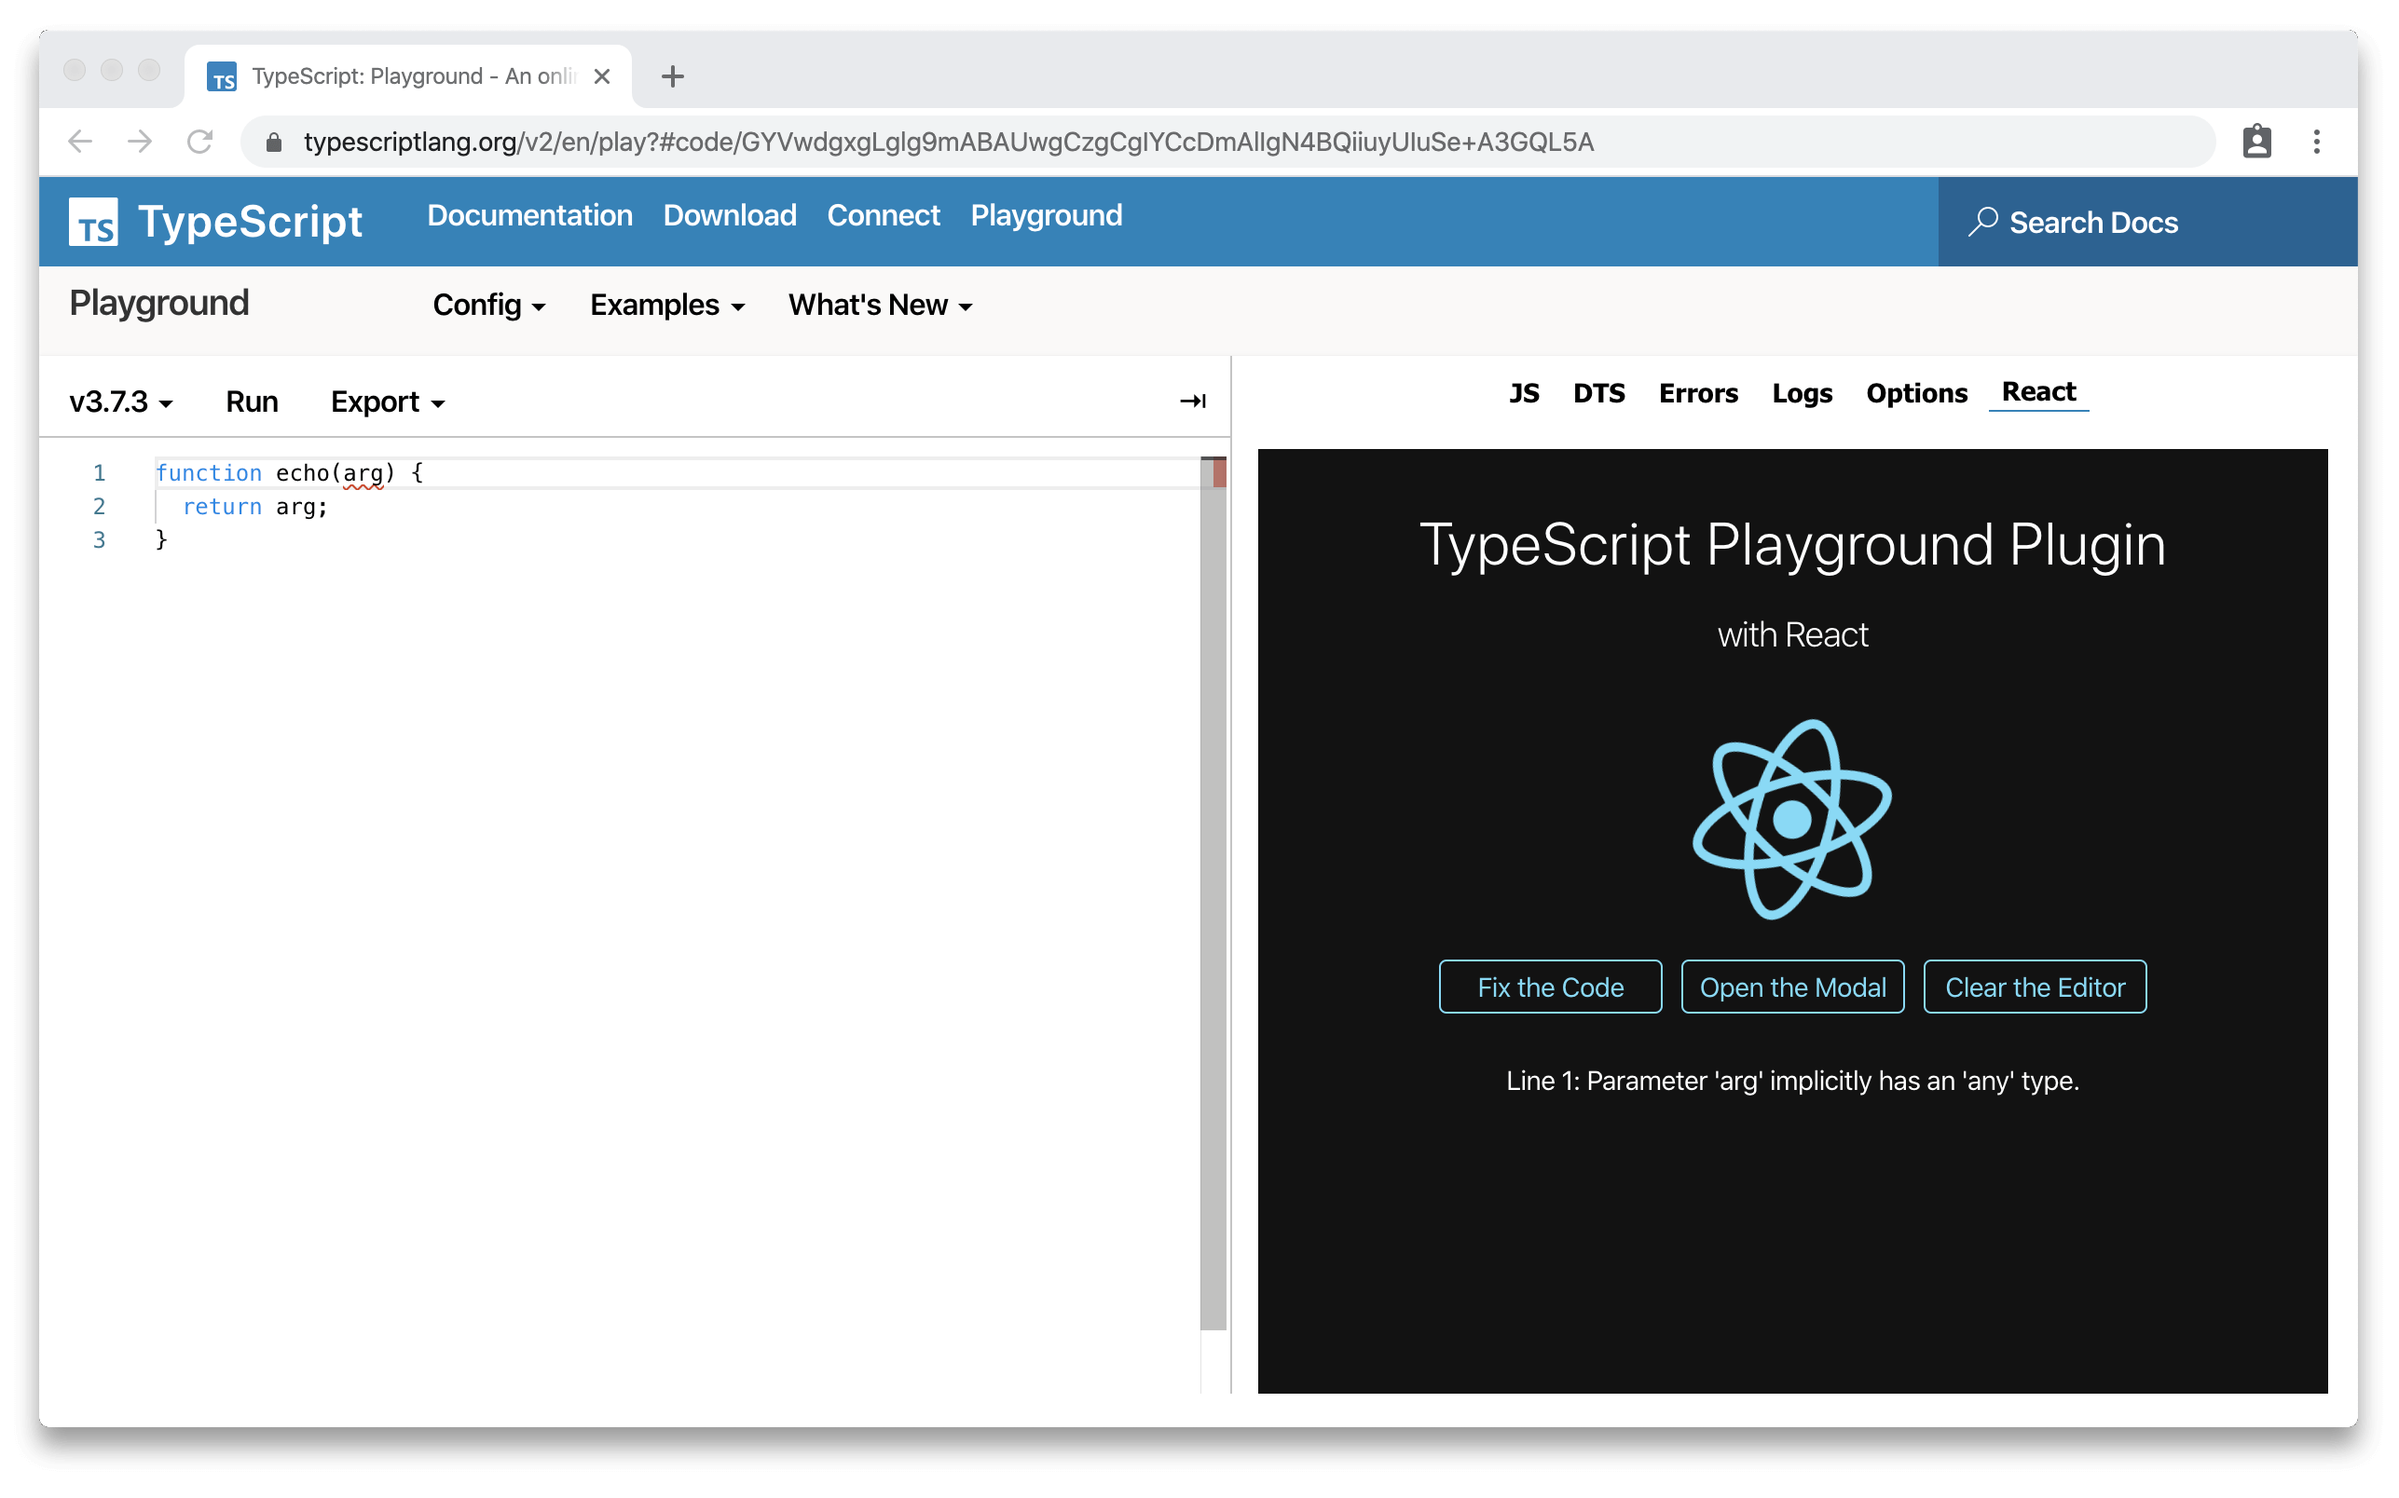
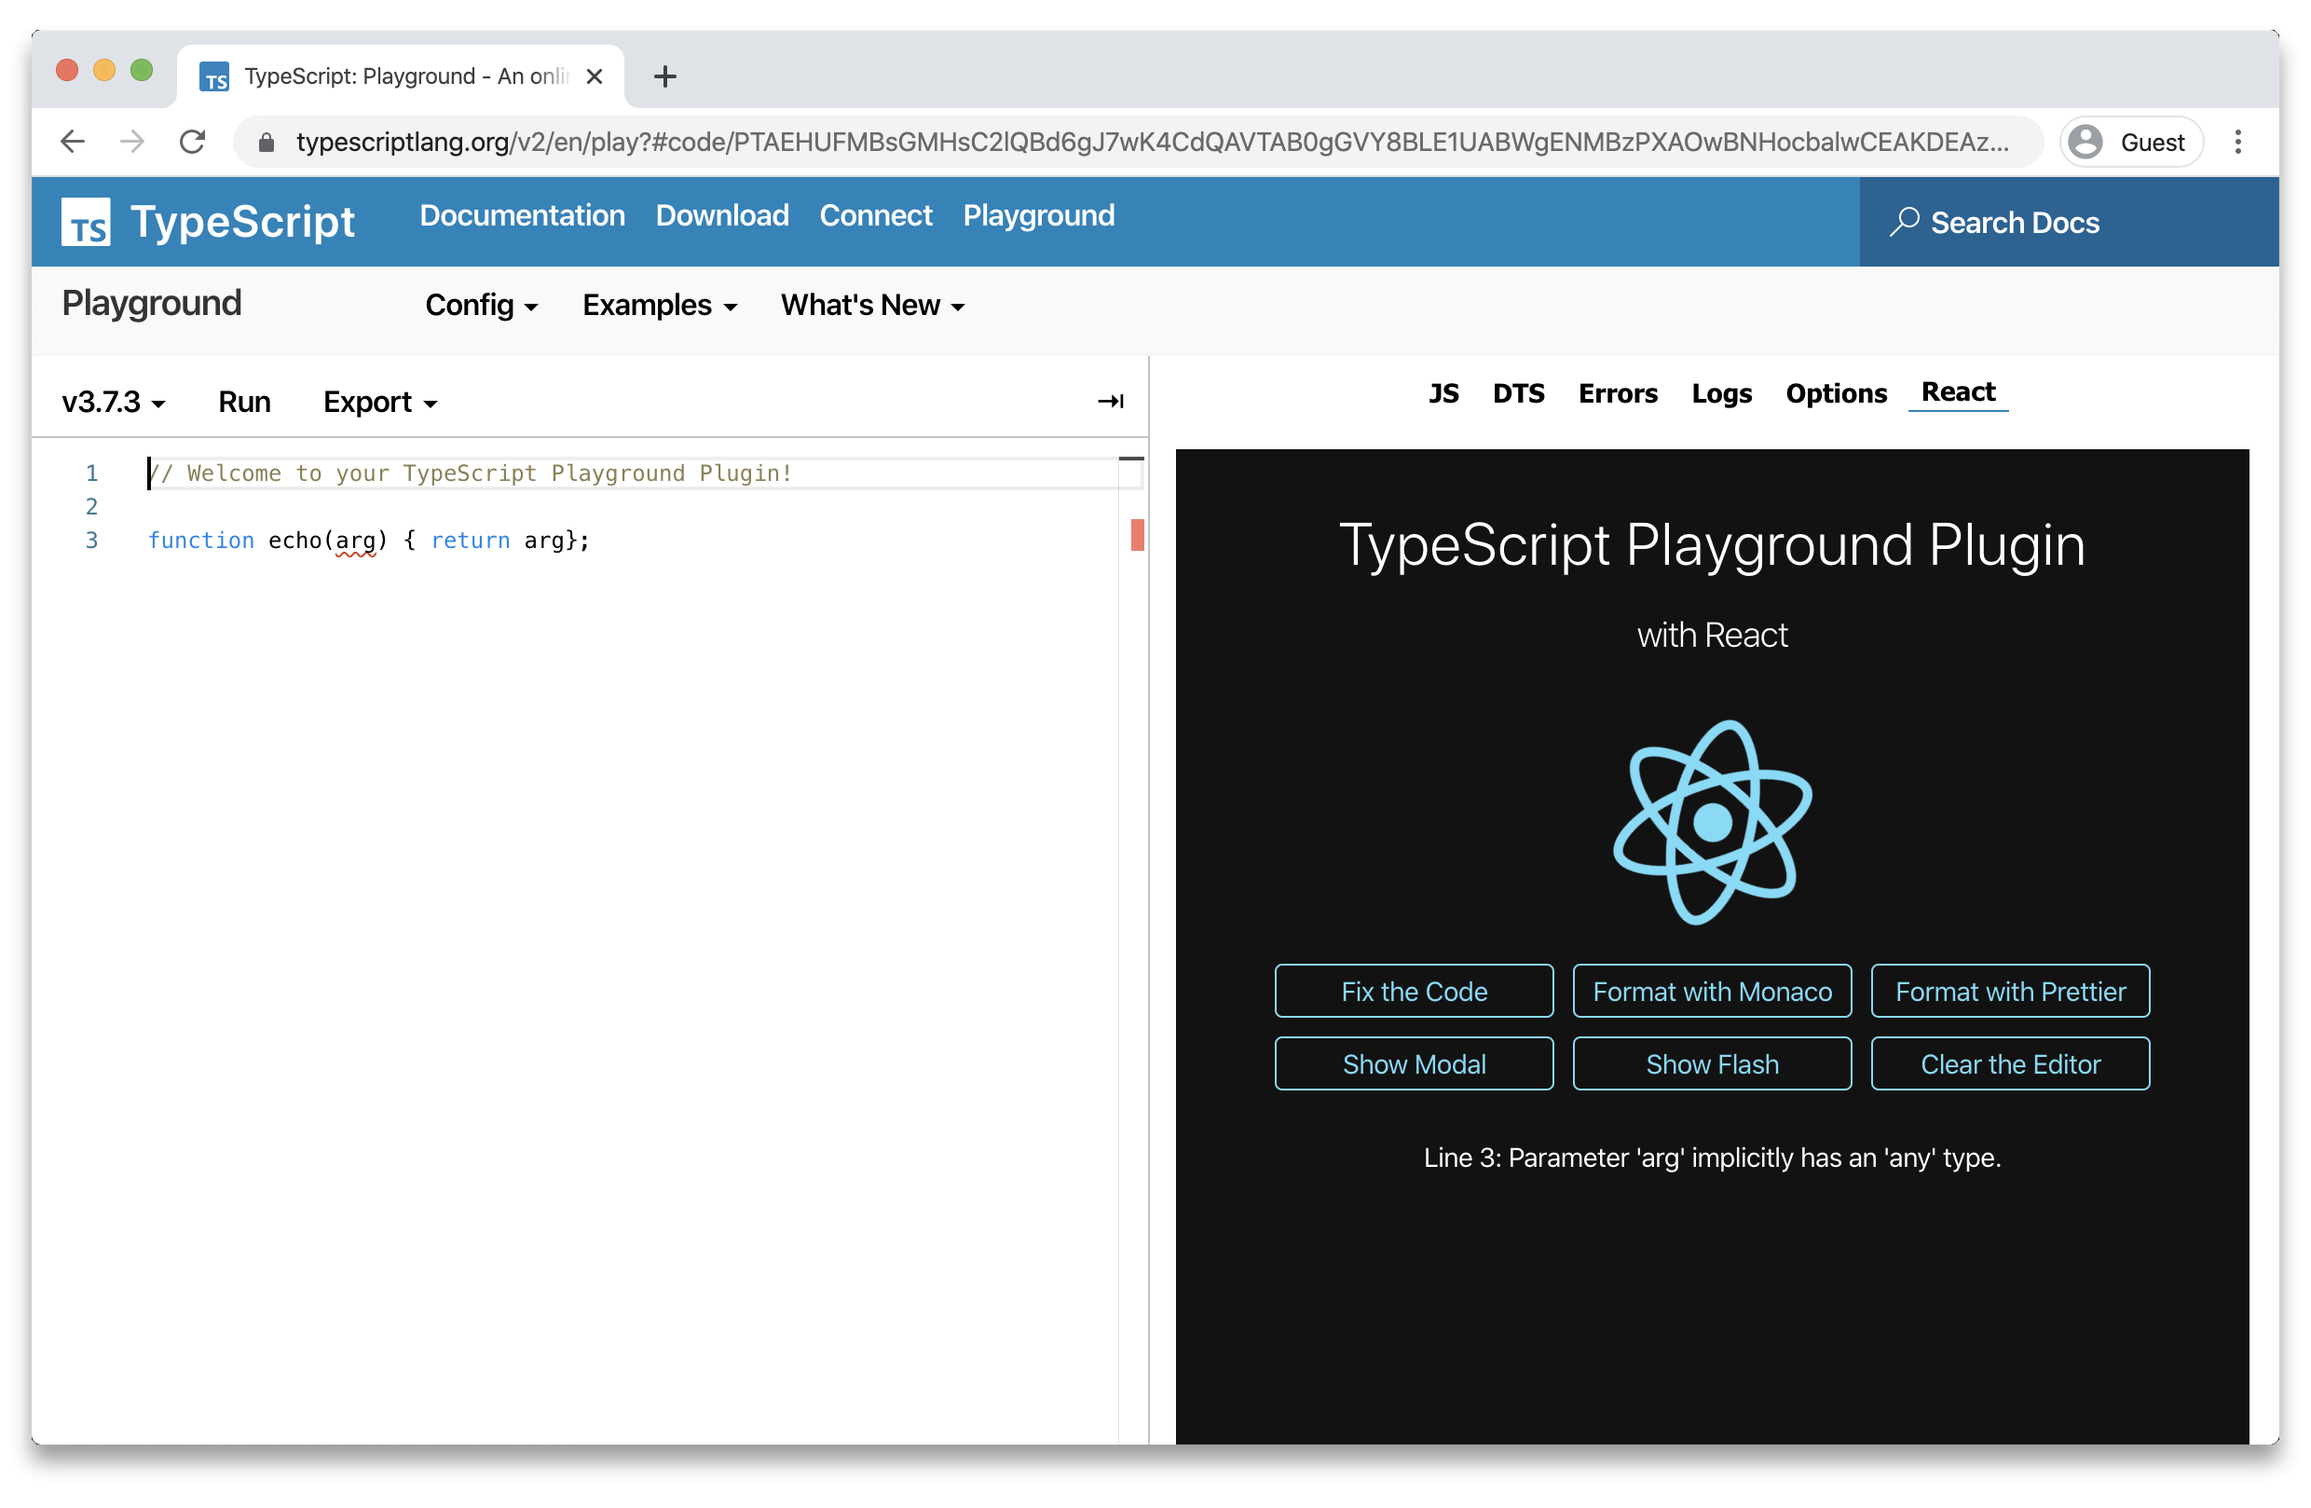
Minor refactors, cleanup, and updated README.

diff --git a/src/App.tsx b/src/App.tsx
@@ -2,6 +2,7 @@ import React from "react";
 import { css } from "goober";
 import { usePlugin } from "./plugin";
 import "./App.css";
+// @ts-ignore TODO: Fix this
 import logo from "./assets/logo.svg";
 
 const { useEffect } = React;
@@ -103,7 +104,7 @@ const App: React.FC = () => {
       </button>
 
       <button className={buttonClass} onClick={handleShowFlash}>
-        Flash Info
+        Show Flash
       </button>
 
       <button className={buttonClass} onClick={handleClear}>

diff --git a/src/types/index.d.ts b/src/types/index.d.ts
@@ -3,7 +3,10 @@ import {ShowModal, FlashInfo} from '../plugin/Provider'
 declare module "*.jpeg";
 declare module "*.jpg";
 declare module "*.png";
-declare module "*.svg";
+declare module '*.svg' {
+  const content: any
+  export default content;
+}
 
 declare global {
   interface Window {
@@ -13,6 +16,5 @@ declare global {
         flashInfo: FlashInfo;
       };
     };
-    ts: typeof window.ts
   }
 }

diff --git a/rollup.config.js b/rollup.config.js
@@ -17,13 +17,13 @@ export default {
     format: "amd"
   },
   plugins: [
+    image(),
     postcss({ minimize: true }),
     replace({
       "process.env.NODE_ENV": JSON.stringify(
         isProd ? "production" : "development"
       )
     }),
-    image(),
     eslint({ throwOnError: true }),
     resolve({
       extensions,

diff --git a/README.md b/README.md
@@ -2,7 +2,7 @@
 
 Easily create TypeScript [Playground Plugins](https://www.typescriptlang.org/v2/dev/playground-plugins/) with [React](https://reactjs.org/).
 
-> 🚧 This project is experimental. Please use with caution.
+> 🚧 This project is experimental so please use with caution. Also, plugins only work in Chromium based browsers. 
 
 ## Table Of Contents
 
@@ -14,13 +14,13 @@ Easily create TypeScript [Playground Plugins](https://www.typescriptlang.org/v2/
 5. [More about TypeScript Playground Plugins](#more-about-typescript-playground-plugins)
 
 ## Features
-✔ Write your TypeScript Playground plugin in React and TypeScript.
+✅ Write your TypeScript Playground plugin in React and TypeScript.
 
-✔ Interact with the Playground using a strongly-typed React hook.
+✅ Interact with the Playground using a strongly-typed React hook.
 
-✔ Create styles with stylesheets or CSS-in-JS with Goober.
+✅ Create styles with stylesheets or CSS-in-JS with Goober.
 
-✔ Linting with ESLint
+✅ Linting with ESLint
 
 ## About
 
